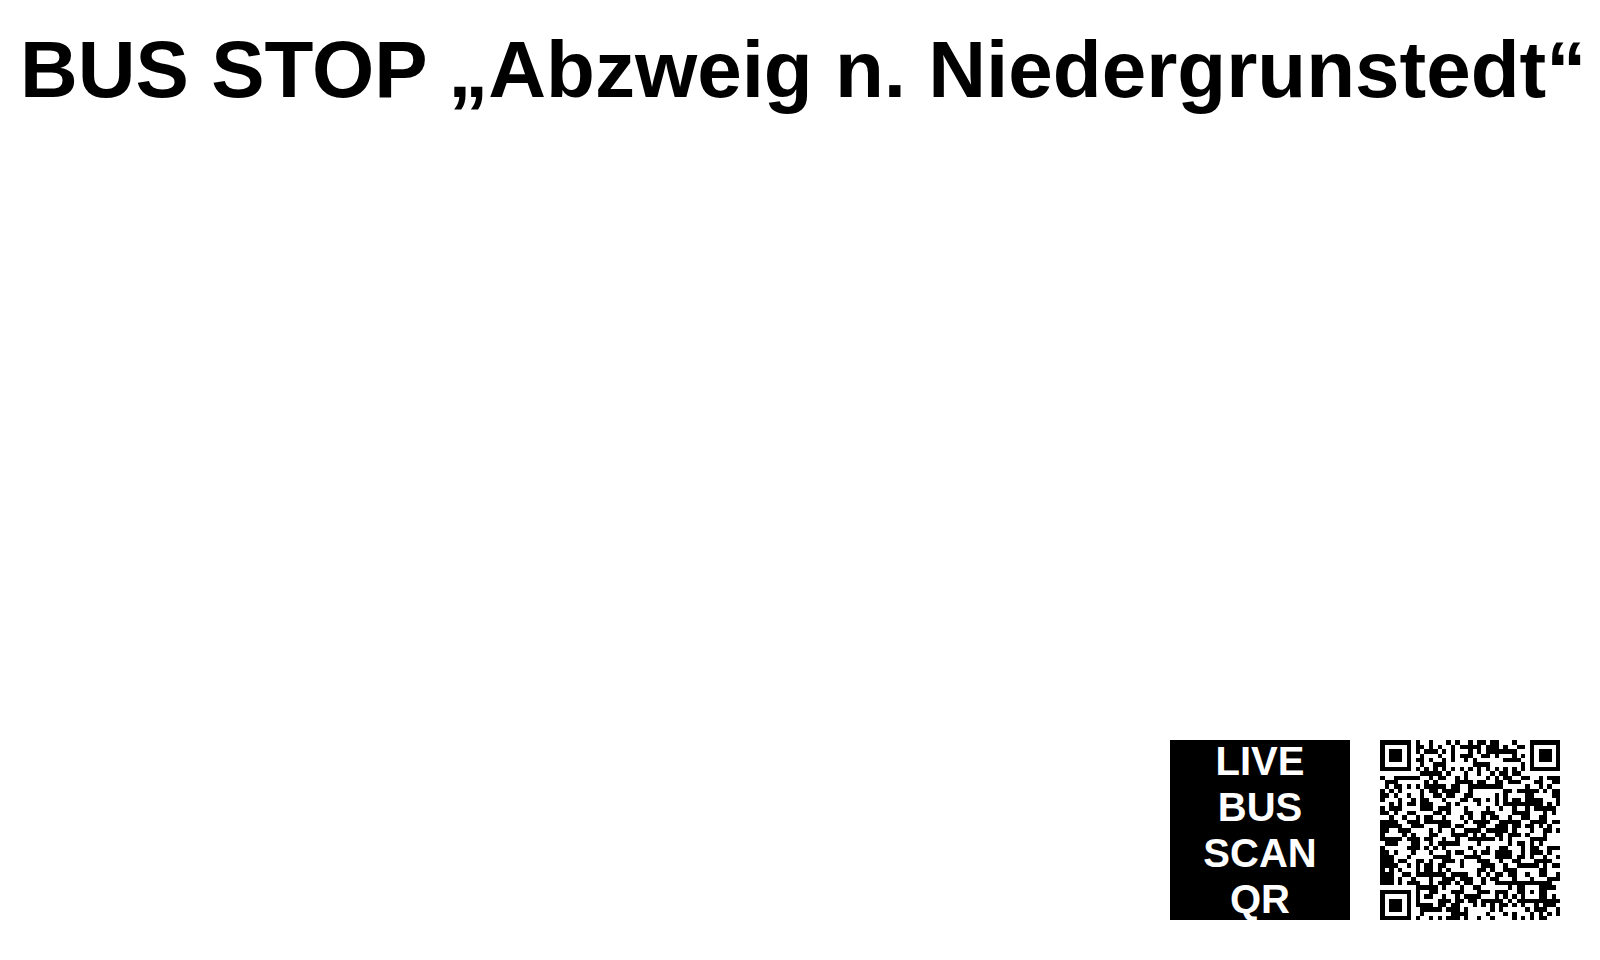
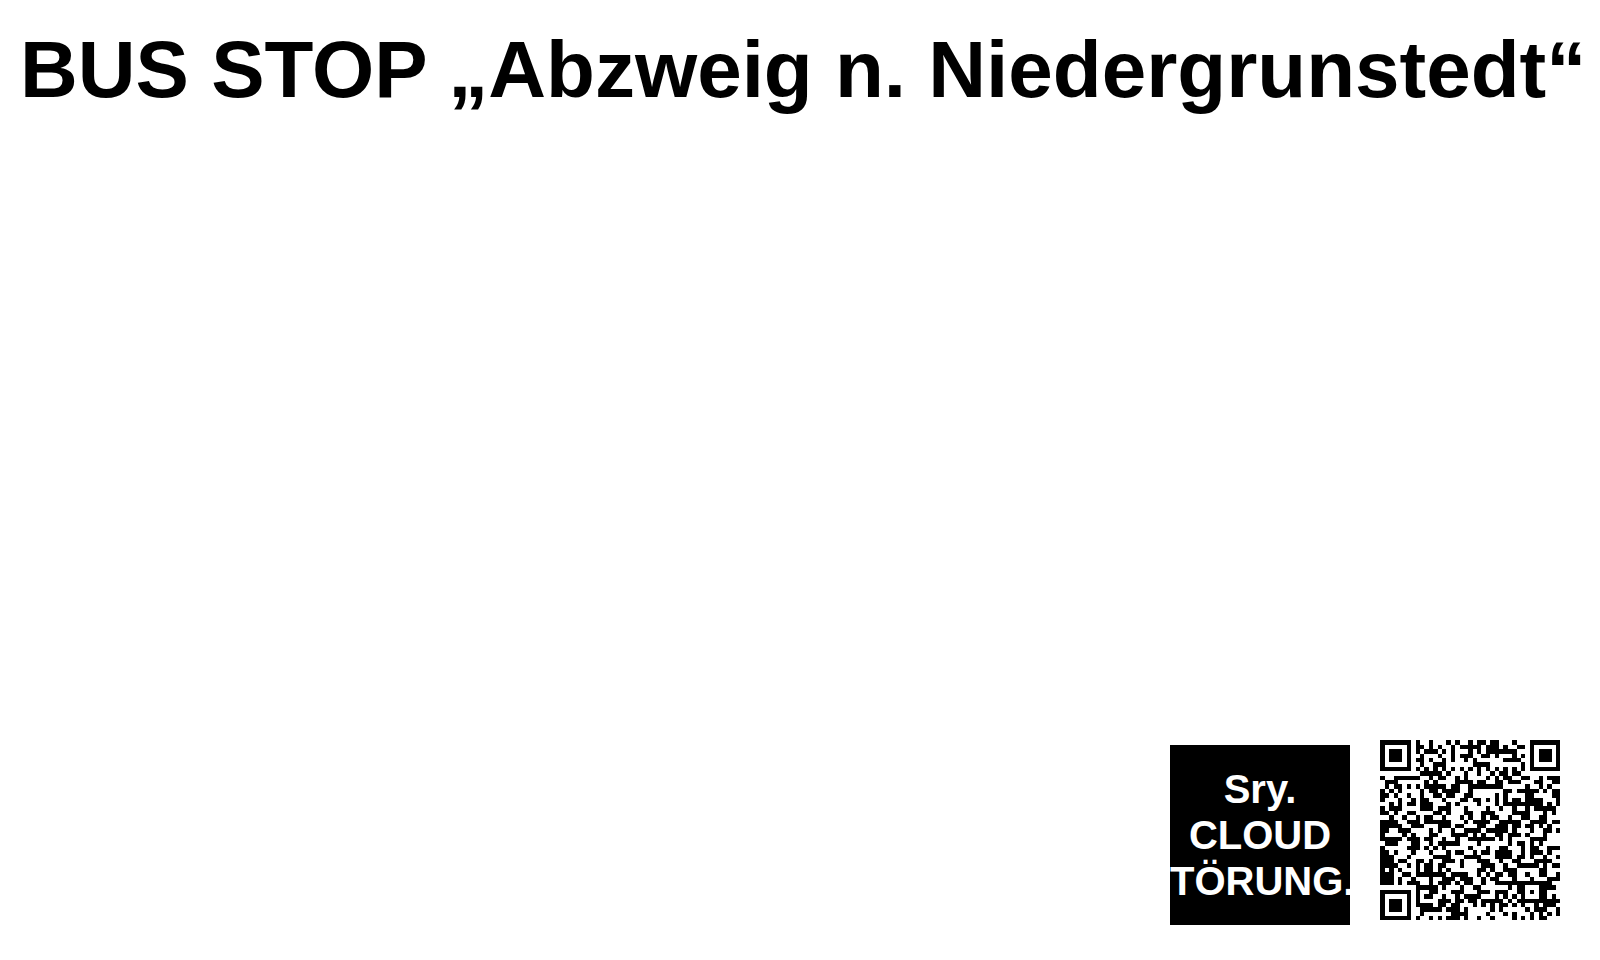
deploy: 9e96ee4c7c16fa1a79651c014c5d67a023ba781a

Changed region(s): [[0.7188, 0.75, 0.8438, 0.9688]]

diff --git a/capture.js b/capture.js
@@ -57,11 +57,11 @@ const LIVE_SCAN_BOX = {
 
   // Position from right and bottom
   right: 250,
-  bottom: 40,
+  bottom: 35,
 
   // Text
-  line1: 'LIVE BUS',
-  line2: 'SCAN QR'
+  line1: 'Sry. CLOUD',
+  line2: 'STÖRUNG...'
 };
 
 
